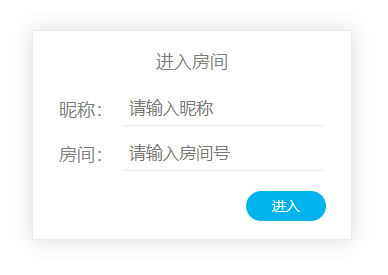
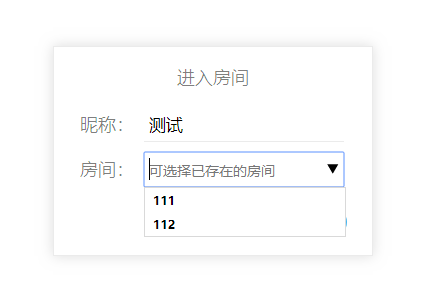
完善项目介绍

diff --git a/README.md b/README.md
@@ -18,7 +18,7 @@ Spring Boot + WebSocket
 1. 后台无数据库，不保留用户聊天数据；
 2. 图片最大只能发送1M的，格式为常见图片格式；
 3. 用户发送的图片会在服务器上短暂储存供其他用户加载，约一分钟后会被删除；
-4. 打开项目后输入任意昵称和房间号即可进入指定房间，同一房间中昵称不可重复；
+4. 打开项目后输入任意昵称和房间号即可进入指定房间，也可选择已存在的房间，同一房间中昵称不可重复；
 5. 主界面按"Esc"键可关闭侧边栏，任意位置点击鼠标右键可再次打开；
 6. 标签页不在前台时收到消息会有提示音和弹窗通知，用户可根据需要开启/关闭此功能，开关是侧边栏上方的音量按钮。
 
